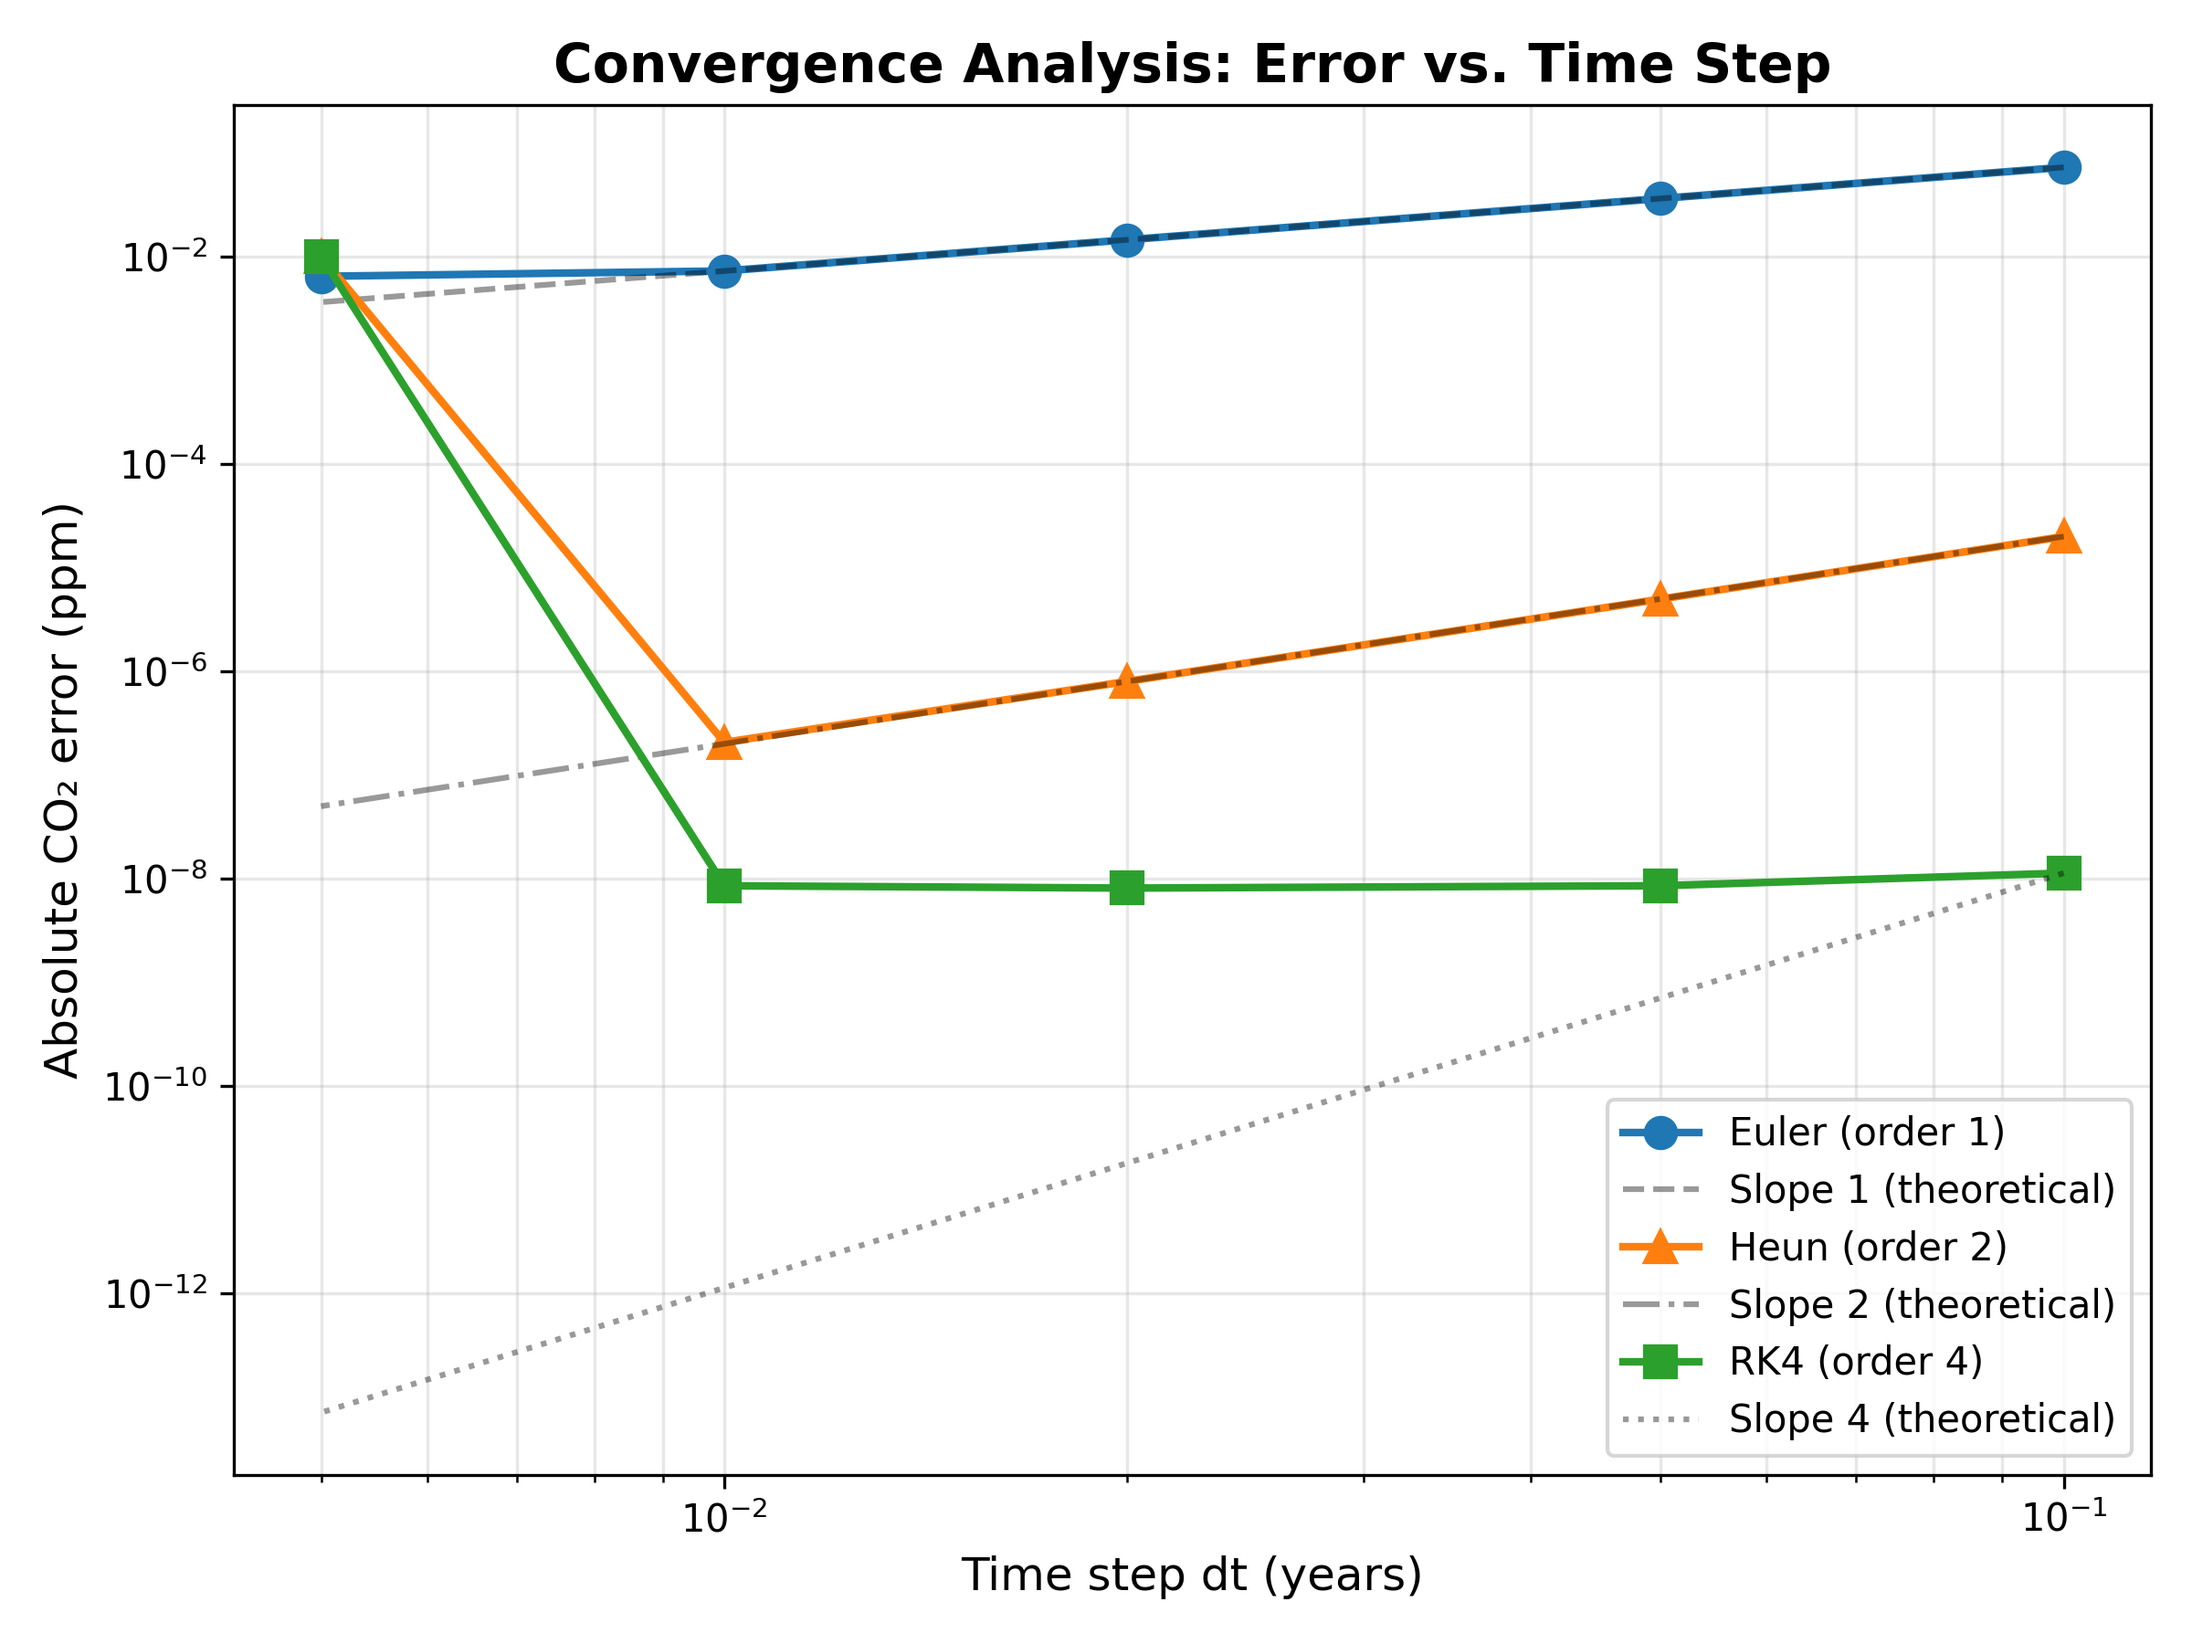
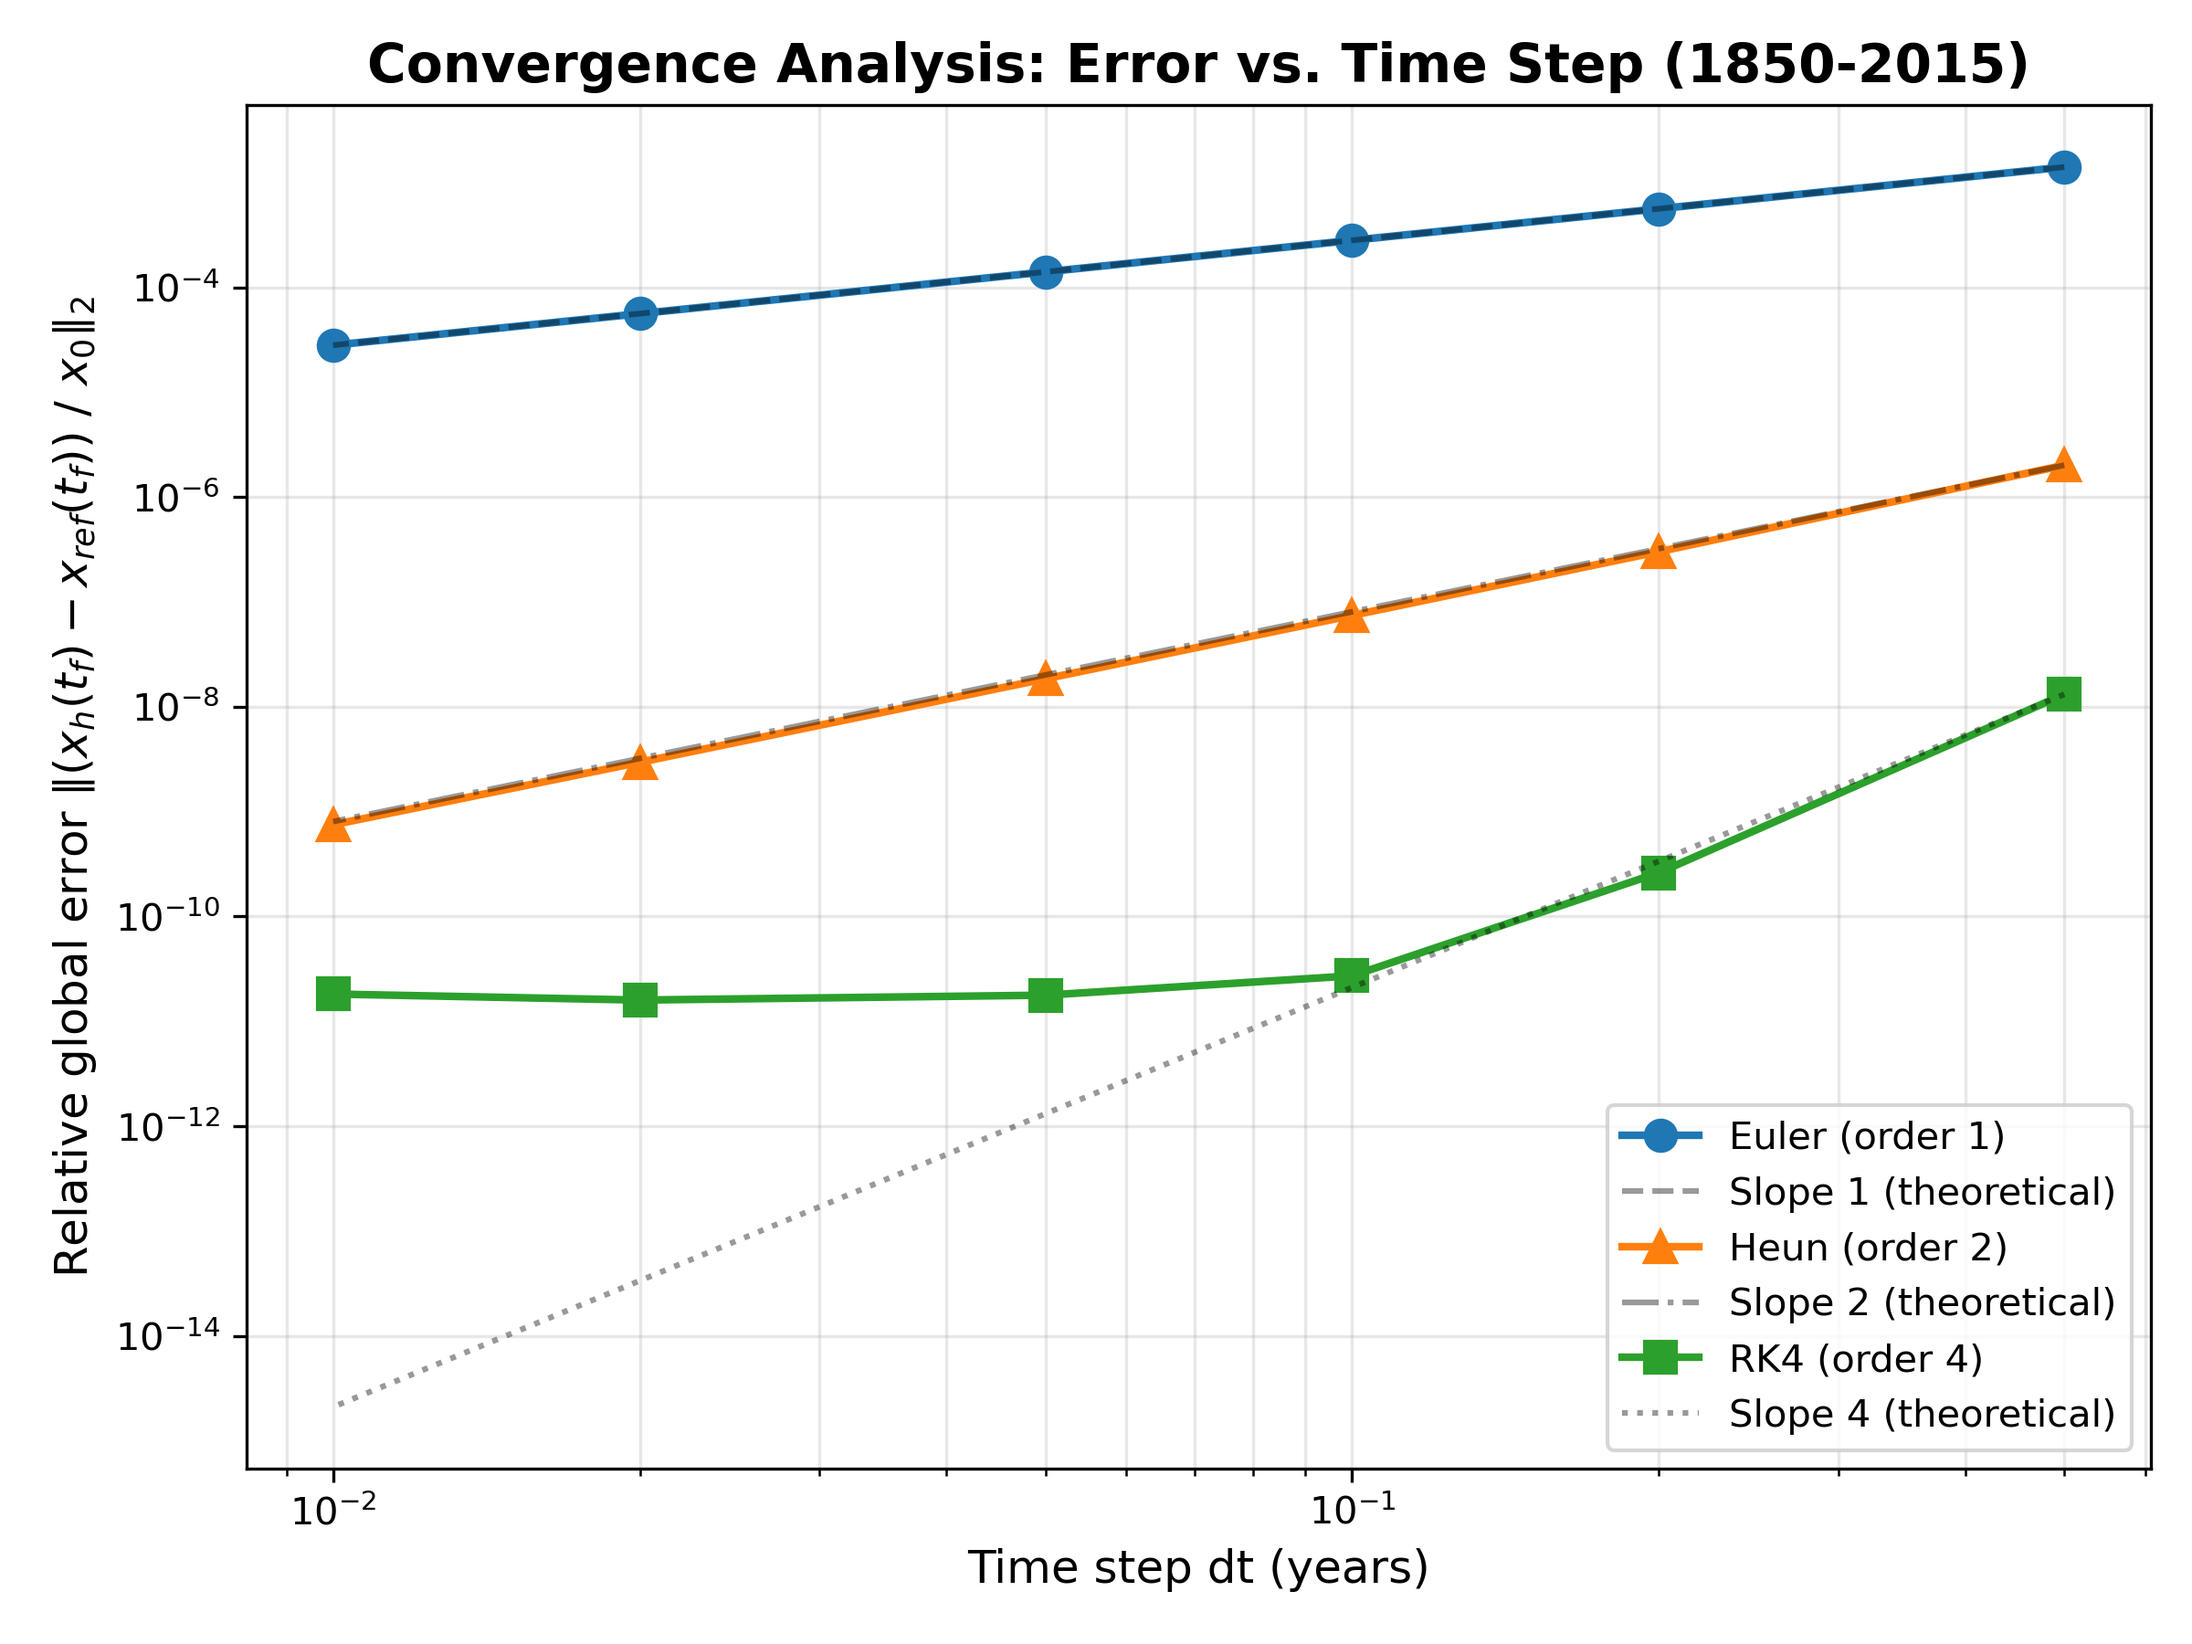
convergence

diff --git a/carbone_clean.py b/carbone_clean.py
@@ -212,16 +212,19 @@ def run_am3(x0, t0, tf, dt):
 # CONVERGENCE ANALYSIS
 # ══════════════════════════════════════════════════════════════════════════════
 
-def analyse_convergence():
-    """
-    We compute absolute CO2 errors against a high-resolution RK4 reference
-    (dt=0.001) and plot them on a log-log scale to verify theoretical orders.
-    """
-    t0, tf = 1850, 2015
-    _, ref = run_rk4(x0, t0, tf, dt=0.001)
-    co2_ref = AtmCO2(ref[-1, 0])
+def _make_times(t0, tf, dt):
+    n_steps = int(round((tf - t0) / dt))
+    return np.linspace(t0, tf, n_steps + 1)
 
-    dts = [0.1, 0.05, 0.02, 0.01, 0.005]
+def analyse_convergence():
+    t0, tf = 1850, 1874 
+    dt_ref = 0.0005
+    
+    # z(t) : Trajectoire de référence complète
+    _, ref = run_rk4(x0, t0, tf, dt=dt_ref)
+
+    dts = [0.5, 0.2, 0.1, 0.05, 0.02, 0.01] 
+    
     methods = {
         'Euler (order 1)': (run_euler,  'o-', 1),
         'Heun (order 2)':  (run_heun,   '^-', 2),
@@ -230,20 +233,42 @@ def analyse_convergence():
 
     plt.figure(figsize=(8, 6))
     for label, (runner, style, order) in methods.items():
-        errs = [abs(AtmCO2(runner(x0, t0, tf, h)[1][-1, 0]) - co2_ref) for h in dts]
+        errs = []
+        for h in dts:
+            # y_n : Trajectoire grossière calculée avec le pas h
+            _, res = runner(x0, t0, tf, h)
+            
+            # Pour comparer y_n et z(t_n) au même instant, on extrait les points
+            # de la référence qui correspondent exactement aux instants de la méthode grossière.
+            step_ratio = int(round(h / dt_ref))
+            ref_alignee = ref[::step_ratio] 
+            
+            # Application stricte de la définition 4.3.5 : 
+            # 1. On calcule la différence pour chaque 'n' (en norme relative pour la lisibilité)
+            diff = (res - ref_alignee) / x0
+            
+            # 2. On calcule la norme Euclidienne ||y_n - z(t_n)|| pour chaque instant n
+            normes_par_instant = np.linalg.norm(diff, axis=1)
+            
+            # 3. On prend le MAX sur tout l'intervalle 0 <= n <= N
+            erreur_globale_max = np.max(normes_par_instant)
+            
+            errs.append(erreur_globale_max)
+            
         plt.loglog(dts, errs, style, label=label, linewidth=2, markersize=8)
-        # Reference slope anchored at largest dt
+        
+        # Pente de référence
         ref_slope = errs[0] * (np.array(dts) / dts[0]) ** order
         plt.loglog(dts, ref_slope, 'k--' if order==1 else ('k-.' if order==2 else 'k:'),
                    alpha=0.4, linewidth=1.5, label=f'Slope {order} (theoretical)')
 
     plt.xlabel('Time step dt (years)', fontsize=12)
-    plt.ylabel('Absolute CO₂ error (ppm)', fontsize=12)
-    plt.title('Convergence Analysis: Error vs. Time Step', fontsize=14, fontweight='bold')
-    plt.legend(fontsize=10)
+    plt.ylabel(r'Global error $\max_{n} \left\| (y_n - z(t_n)) / x_0 \right\|_2$', fontsize=12)
+    plt.title('Convergence Analysis: Error vs. Time Step (1850-1874)', fontsize=14, fontweight='bold')
+    plt.legend(fontsize=10, loc='lower right') 
     plt.grid(alpha=0.3, which='both')
     plt.tight_layout()
-    plt.savefig(get_output_dir('data/plots/comparisons') / 'convergence_analysis.png', dpi=300)
+    plt.savefig(get_output_dir('data/plots/comparisons') / 'convergence_analysis_strict.png', dpi=300)
     plt.show()
 
 # ══════════════════════════════════════════════════════════════════════════════
@@ -653,6 +678,6 @@ if __name__ == '__main__':
     # compare_with_historical(times, results)
     # plot_temperature_anomaly()
     # verify_mass_conservation(times, results)
-    # analyse_convergence()
+    analyse_convergence()
     # analyse_consistance()
-    analyse_stability()
+    #analyse_stability()
